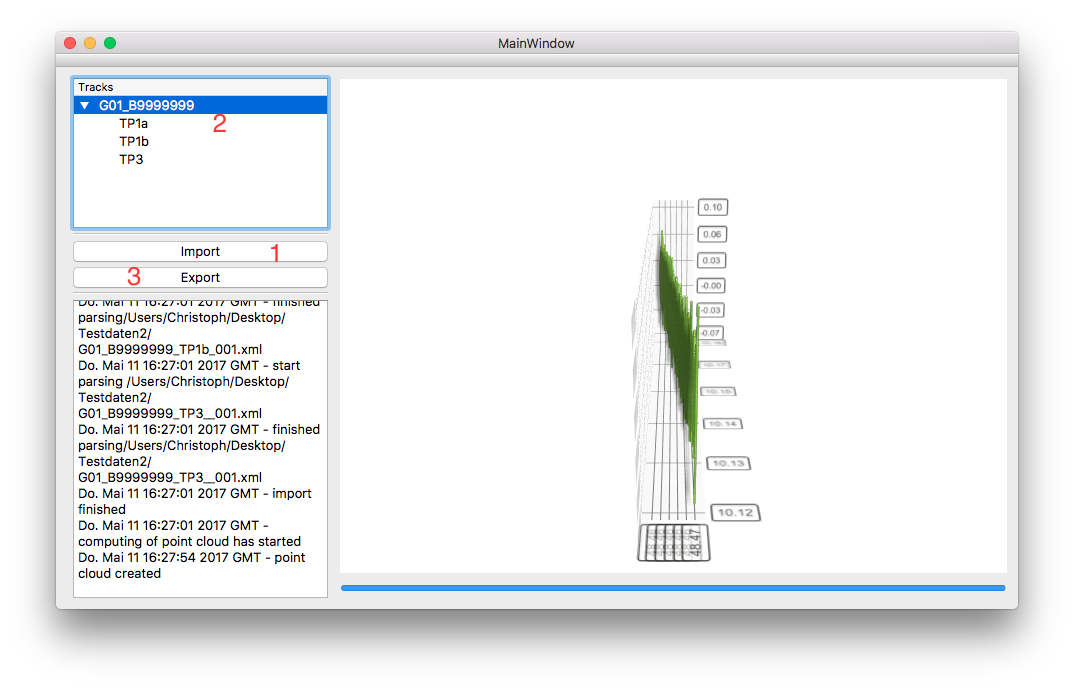
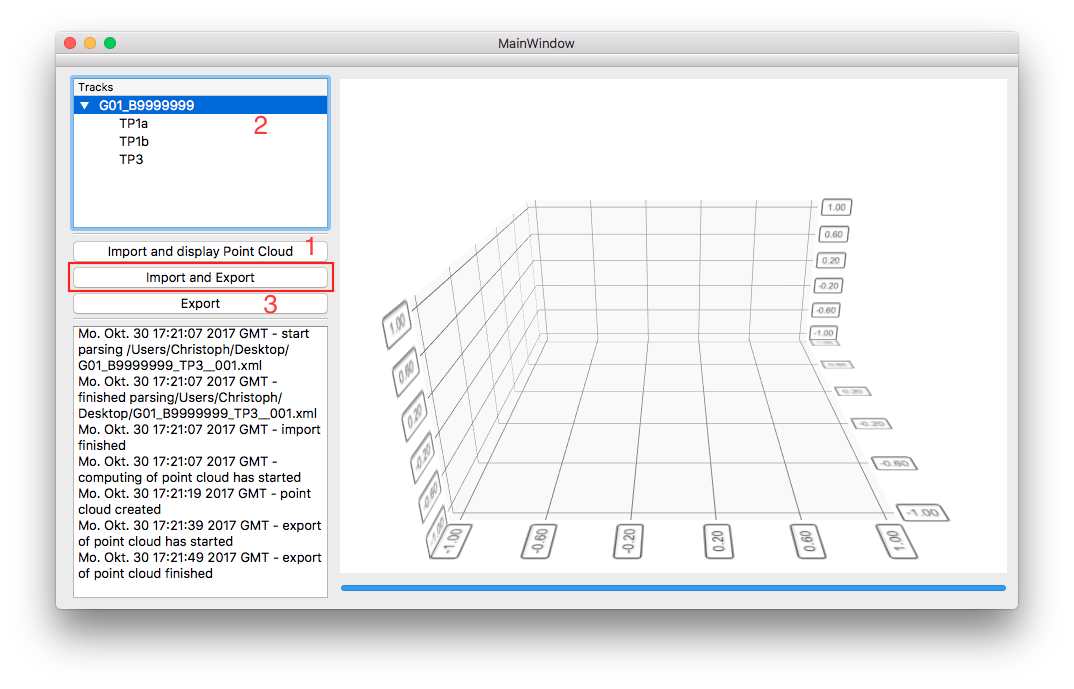
update readme

diff --git a/README.md b/README.md
@@ -39,9 +39,11 @@ The GUI looks like the following:
 <img src="screenshots/screenshot_app.png">
 </p>
 
-1. First press the import-button and choose one of the three files of a ZEB-track. The software searches in the same directory and all subdirectories for the other 2 files.
+1. First press the import-button and choose one of the three files of a ZEB-track. The software searches in the same directory and all subdirectories for the other 2 files. The calculated point cloud will be displayed in the software.
 2. After importing the data and calculating the point cloud, select the track in the tree view for preparing the export.
 3. Press the export-button and type in the name of the resulting file (including the extension of the file).
+
+The encircled button (Import and Export) starts the import and export at one time. There is no need to select a track in the tree view. The point cloud will not be displayed in the software (huge reduction of RAM usage and calculation time).
 
 ### Build the application
 If you build the application, remember to remove the hard coded path to the settings-file if necessary.
@@ -91,12 +93,12 @@ To get a regionalisation of the point data, Voronoi-polygons can be used. Becaus
 A regionalisation with (Delaunay-)triangulation or a rasterization should be possible, but is not tested.
 
 ## Known issues
-1. If the distance between two following coordinates is not exactly the same as described in the XML-files, then points at the end/beginning at one data-section (XML-node *Datenstrom*) cannot be correctly arranged (overlays or bigger/smaller gaps than normaly are possible).
-2. The distance between two following sensors in the cross beam is to big, i.e. I used a TP1b-file with 10cm distance between each laser on the cross beam. The resulting distance in the point cloud was ca. 15cm. I had not found the problem, maybe it is a problem with the CRS (10cm distance between two points in EPSG:4326 is just detecting by using a high precision of double values - maybe a rounding problem occured).
-3. The software was created and tested using macOS 10.12., neither Windows nor Linux are tested until now.
+1. If the distance between two following coordinates is not exactly the same as described in the XML-files, then points at the end/beginning at one data-section (XML-node *Datenstrom*) cannot be correctly arranged (overlays or bigger/smaller gaps than normal are possible).
+2. The distance between two following sensors in the cross beam is too big, i.e. I used a TP1b-file with 10cm distance between each laser on the cross beam. The resulting distance in the point cloud was ca. 15cm. I had not found the problem, maybe it is a problem with the CRS (10cm distance between two points in EPSG:4326 is just representing by using a high precision of double values - maybe a rounding problem occured).
+3. The software was created and tested using macOS 10.12, neither Windows nor Linux are tested until now.
 4. The position of crossing transversal and longitudinal profile on the cross beam is hard coded. There is no input option in the GUI.
-5. If you import a measurement with a trajectory, that can be described by the linear equation x=a, i.e. driven directly from north to south or otherwise, than it could be possible, that the points of the cross profile are on the wrong side. This problem is possible because of the mathematical model of the application, but not tested and not seen until now.
-6. Huge RAM-usage (1km track needs ca. 800MB RAM). The whole point cloud will be created in the RAM and displayed at the end of the calculations. It is not recommended to import more than one track into one session.
+5. If you import a measurement with a trajectory, that can be described by the linear equation x=a, i.e. driven directly from north to south or otherwise, than it could be possible, that the points of the cross profile are on the wrong side. This problem should be theoretical possible because of the mathematical model of the application, but not tested and not seen until now.
+6. Huge RAM-usage (1km track needs ca. 800MB RAM) by using the Import-button, which displayes the point cloud after import. The whole point cloud will be created in the RAM and displayed at the end of the calculations. It is not recommended to import more than one track into one session. If you use the Import and Export-button, the same track needs only 150MB RAM.
 7. No optimisation realised for zooming and panning in the 3D-view of the software, i.e. it is not smooth if you loaded long tracks into the application.
-8. The calculation of distances in driving directions are realised in 2D. I think 3D-distances should be correctly because the software created a 3D-point-cloud. But the height should be ignorable for point on the road with a distance of 10cm. The usage of a 3D-distances created very unrealistic point cloud, so it is recommended to use the 2D-distance.
+8. The calculation of distances in driving directions are realised in 2D. I think 3D-distances should be correctly because the software created a 3D-point-cloud. But the absolute height of the road should be ignorable for points on the road with a distance of 10cm (the difference between 2 nearest points is very low). The usage of a 3D-distances creates a very unrealistic point cloud, so it is recommended to use the 2D-distance.
 9. The software is just tested with 10cm equidistance in TP1a and TP1b (distance between 2 following sensors on the cross beam). It is possible, that the software has problems with other settings of Georawfiles (but I hope it can handle them too - maybe somebody is testing it ^^).
